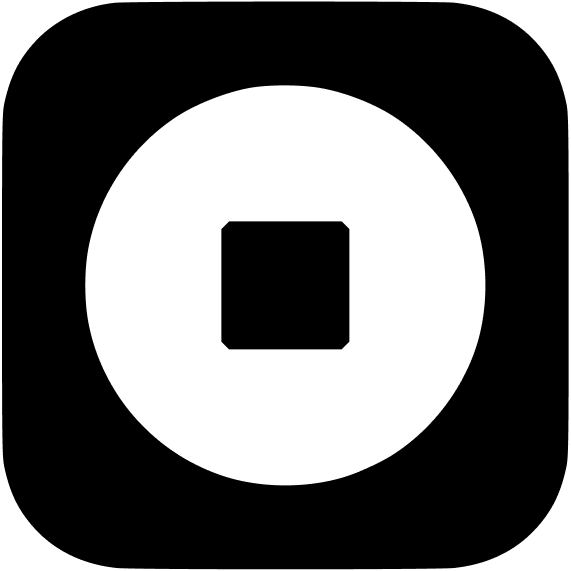
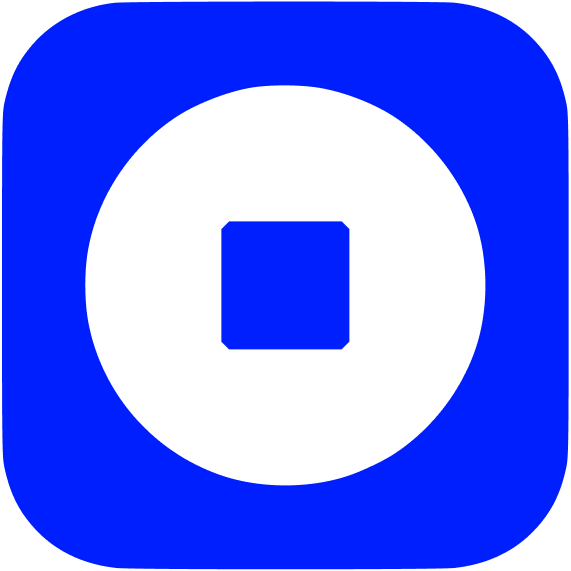
Add files via upload

diff --git a/assets/css/style.css b/assets/css/style.css
@@ -133,15 +133,15 @@ p {
 a.dfltBtn {
   font-family: var(--hdnFont);
   font-size: 25px;
-  color: #0052ff;
+  color: #001ffe;
   font-weight: 500;
   font-style: italic;
   text-transform: uppercase;
   display: inline-block;
   border-radius: 40px;
   padding: 16px 50px;
-  background: rgb(3, 47, 229);
-  background: linear-gradient(90deg, rgba(3, 47, 229, 1) 0%, #0052ff 100%);
+  background: rgb(0, 31, 254);
+  background: linear-gradient(90deg, rgba(0, 31, 254, 1) 0%, #001ffe 100%);
   box-shadow: 0 2px 6px rgba(0, 0, 0, 0.15);
   -webkit-transition: all 0.3s ease-in-out;
   -moz-transition: all 0.3s ease-in-out;
@@ -156,7 +156,7 @@ a.dfltBtn:hover {
 
 a.dfltWhiteBtn {
   background: var(--white);
-  color: #0052ff;
+  color: #001ffe;
 }
 
 a.dfltWhiteBtn:hover {
@@ -199,7 +199,7 @@ a.dfltWhiteBtn:hover {
   font-size: 30px;
   color: var(--white);
   display: inline-block;
-  background: #0052ff;
+  background: #001ffe;
   /* background: linear-gradient(90deg, rgba(2, 90, 200, 1) 0%, rgba(3, 100, 200, 0.75) 100%); */
   padding: 14px 35px;
   border-radius: 100px;
@@ -238,7 +238,7 @@ a.dfltWhiteBtn:hover {
   color: var(--white);
   font-style: italic;
   display: inline-block;
-  background-color: #0052ff;;
+  background-color: #001ffe;;
   padding: 12px 30px;
   border-radius: 50px;
   box-shadow: 0 0 6px rgba(0, 0, 0, 0.2);
@@ -553,7 +553,7 @@ a.dfltWhiteBtn:hover {
 }
 
 .aboutTextPrt h2 span {
-  color: #0052ff;
+  color: #001ffe;
 }
 
 
@@ -572,7 +572,7 @@ a.dfltWhiteBtn:hover {
 .servicesClm {
   width: 30%;
   text-align: center;
-  background: #0052ff;
+  background: #001ffe;
   /* background: rgb(3, 47, 229);
   background: linear-gradient(90deg, rgba(2, 90, 200, 1) 0%, rgba(3, 100, 200, 0.75) 100%); */
   padding: 30px 0;
@@ -717,7 +717,7 @@ a.dfltWhiteBtn:hover {
 .disclaimerAccordionSec .accordion-item{
   margin-bottom: 20px;
   border: none;
-  background:#0052ff;
+  background:#001ffe;
   border-radius: 10px;
   padding: 0;
 }
@@ -753,7 +753,7 @@ a.dfltWhiteBtn:hover {
 
 
 .div-block-11 {
-  background:#0052ff;
+  background:#001ffe;
   border-radius: 10px;
   justify-content: space-around;
   align-items: center;
@@ -768,9 +768,9 @@ a.dfltWhiteBtn:hover {
   min-width: 180px;
   height: 48px;
   padding: 0 15px;
-  color: #032fe5;
+  color: #001ffe;
   background-color: rgba(255, 255, 255, 0.9);
-  border-color: #032fe5;
+  border-color: #001ffe;
   border-radius: 48px;
   display: inline-flex;
   align-items: center;
@@ -832,14 +832,14 @@ a.dfltWhiteBtn:hover {
   padding: 0 0 20px;
 }
 .beastonamicsSec h2 span{
-  color: #0052ff;
+  color: #001ffe;
 }
 .beastoRightSec{
   width: 48%;
 }
 .bgsecRow{
   padding:1rem 1.75rem 1.5rem;
-  background:#0052ff;
+  background:#001ffe;
   /* background:#0052ff; */
   border-radius: 0.75rem;
   width: 100%;
@@ -875,7 +875,7 @@ a.dfltWhiteBtn:hover {
 }
 .faq_component {
   grid-row-gap: 0rem;
-  background: linear-gradient(to left, #0052ff, #032fe5);
+  background: linear-gradient(to left, #001ffe, #032fe5);
   cursor: pointer;
   border-radius: 10px;
   flex-direction: column;
@@ -964,7 +964,7 @@ a.dfltWhiteBtn:hover {
   text-align: center;
 }
 .missionSec h2 span {
-  color: #0052ff;
+  color: #001ffe;
 }
 .missionSec p.simpleText{
   font-size: 15px;
@@ -997,7 +997,7 @@ a.dfltWhiteBtn:hover {
 .numberText{
   font-size: 3.00rem;
   line-height: 1;
-  color: #0052ff;
+  color: #001ffe;
   margin-bottom: 0;
   font-weight: 600;  
   padding-right: 15px;
@@ -1010,7 +1010,7 @@ a.dfltWhiteBtn:hover {
 }
 .missionRowRight p{
   font-size: 15px;
-  color: #0052ff;
+  color: #001ffe;
   margin-bottom: 0;
 }
 
